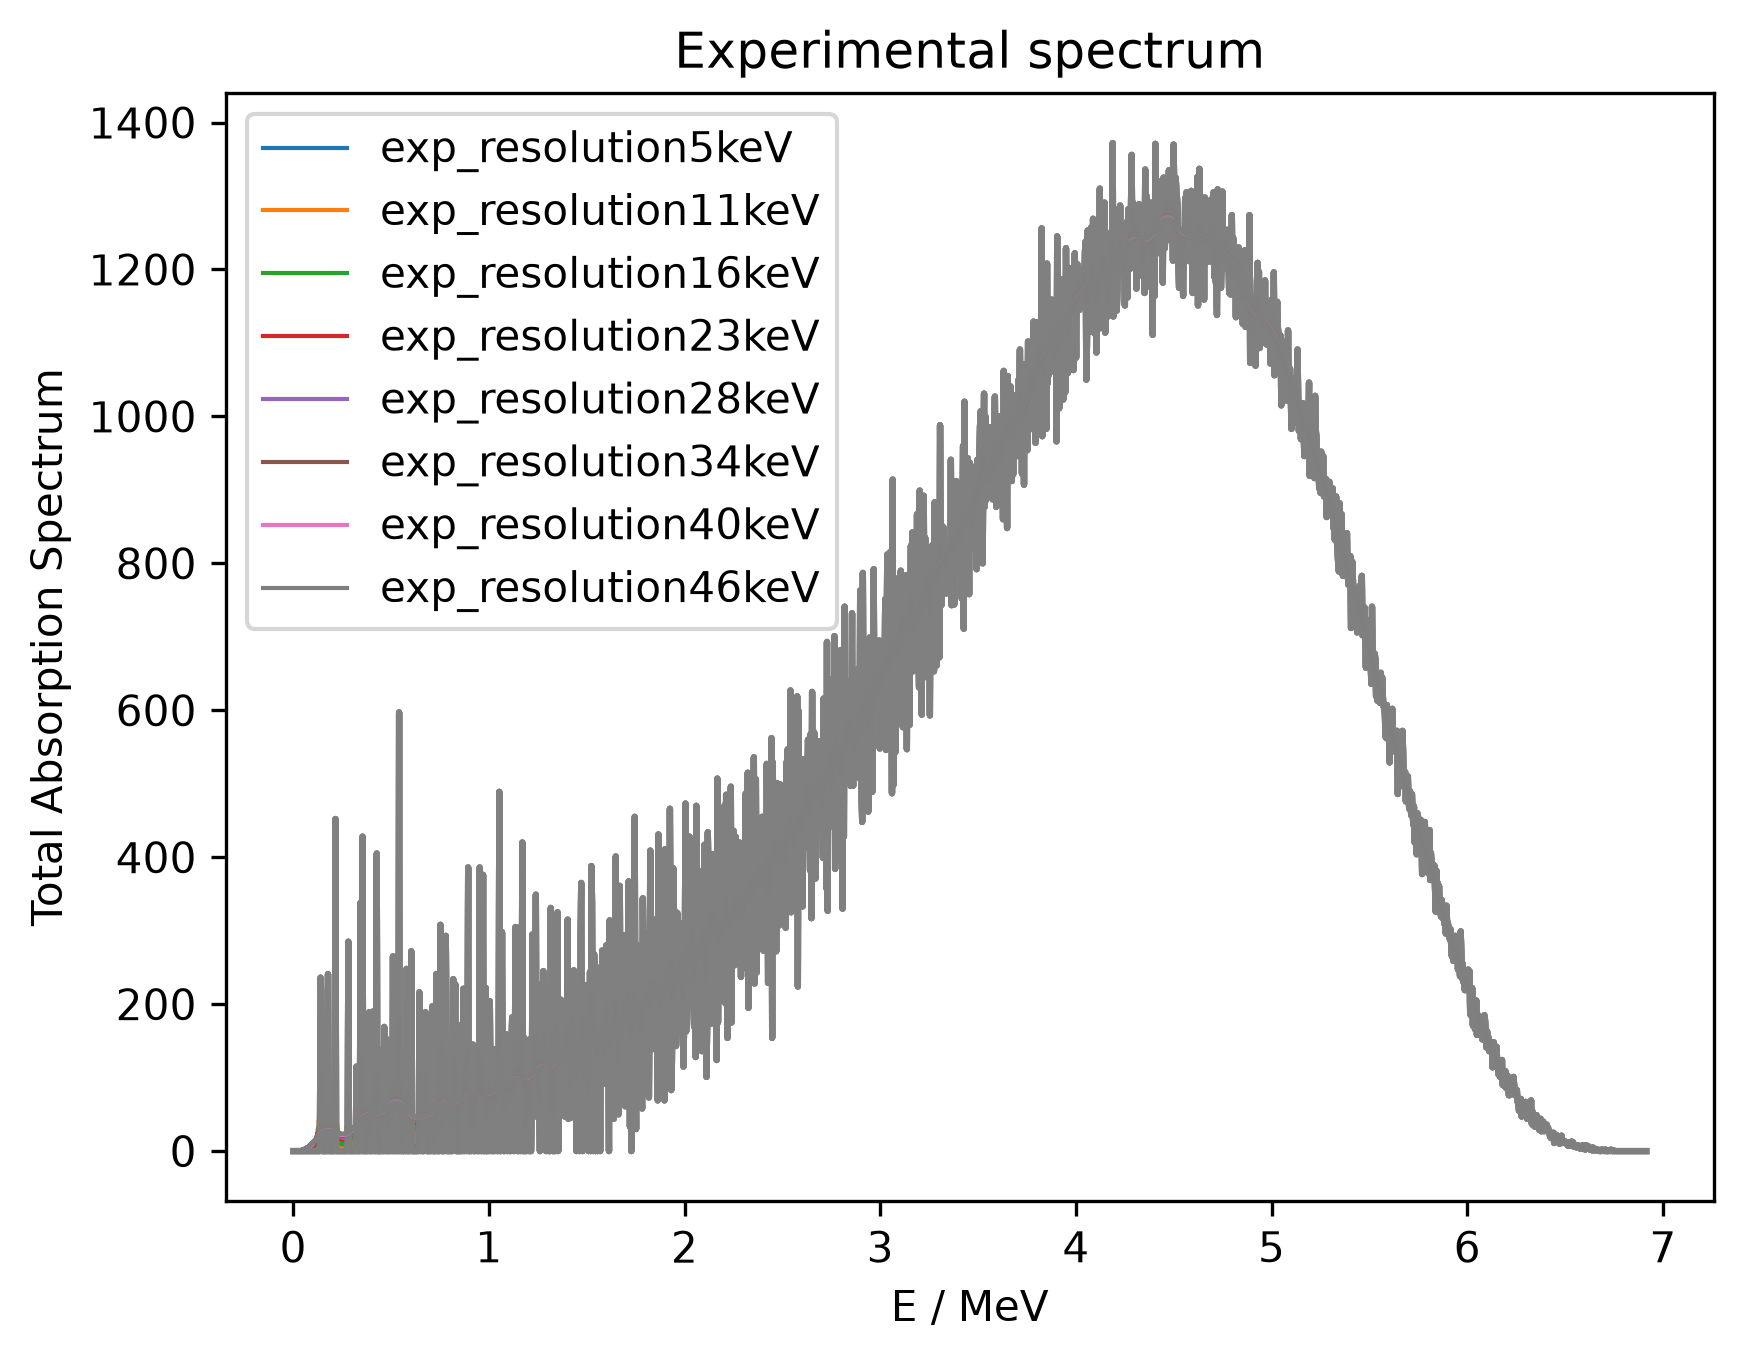
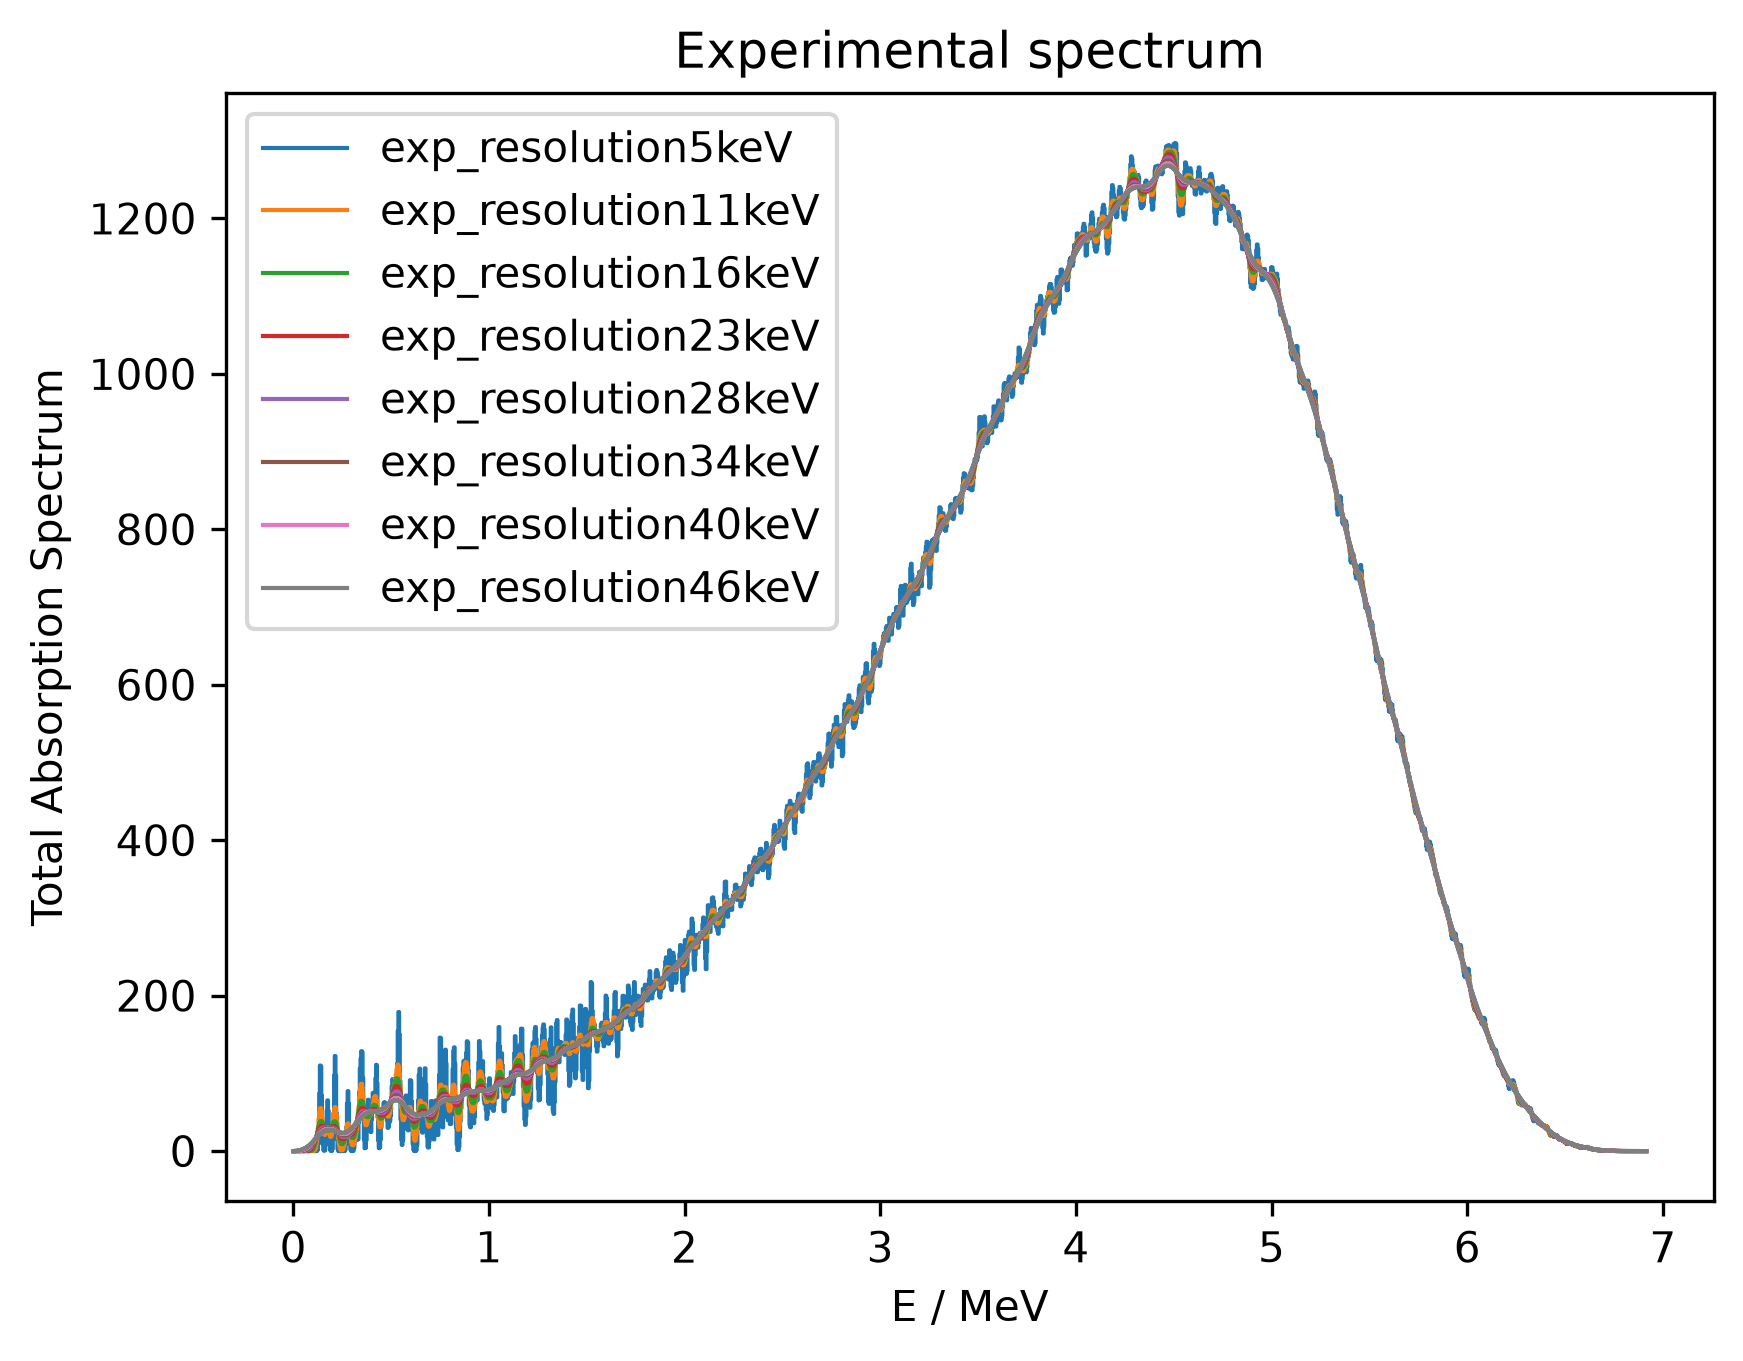
update

diff --git a/Analysis.py b/Analysis.py
@@ -39,21 +39,18 @@ class FluctuationAnalysisPlot:
             energy: list,
             fluct_data: list,
             *,
-            show_full: bool = False,
+            hide_exact_data: bool = False,
             run: Run = None,
             label: str = ""
             ) -> None:
         plt.step(energy, fluct_data, lw=self.linewidth, label=label)
-        if run is not None:
+        if not hide_exact_data:
             energy, data = extract.get_fluct_data(run)
             plt.plot(energy, data, color="grey", alpha=0.5)
         plt.xlabel("E / MeV")
         plt.ylabel("Total Absorption Spectrum")
         plt.legend()
         plt.title("Experimental spectrum")
-        if not show_full:
-            pass
-            #plt.ylim(0,np.percentile(fluct_data, [0,99.8])[1])
 
     def smooth(
             self,
@@ -134,7 +131,8 @@ class FluctuationAnalysisPlot:
             fa_step: FaStep,
             *,
             label: str = "no label",
-            run: Run = None
+            run: Run = None,
+            fluct_data_hide_exact_data: bool = False
             ) -> None:
         fluct_energy = fa.fluct_energy
         fluct_data = fa.fluct_data
@@ -145,7 +143,7 @@ class FluctuationAnalysisPlot:
         extract_nld = fa.nld
         match fa_step:
             case FaStep.fluct:
-                self.fluct_data(fluct_energy, fluct_data, run=run, label=label)
+                self.fluct_data(fluct_energy, fluct_data, run=run, label=label, hide_exact_data=fluct_data_hide_exact_data)
             case FaStep.smoothing:
                 self.smooth(fluct_energy, fluct_data, fine, rough, run=run, label=label)
             case FaStep.stationary:
@@ -236,7 +234,7 @@ class FluctuationAnalysisPlot:
                 param0 = parameter[iter_setting]
                 parameter[iter_setting] = param
                 fa = fluc.fluctuation_analysis(run)
-                self.helper_seriesplot(fa, step, label=self.label(iter_setting,param), run=run)
+                self.helper_seriesplot(fa, step, label=self.label(iter_setting,param), run=run, fluct_data_hide_exact_data=True)
                 parameter[iter_setting] = param0
             plt.savefig(
                 Settings.std_path / FluctuationAnalysis.fa_step_to_folder_name[step] / ("combined"+".png"),
@@ -249,7 +247,8 @@ class FluctuationAnalysisPlot:
             fa: list[FluctuationAnalysisResult],
             *,
             figsize: tuple[float, float] = None,
-            run: Run | list[Run] = None
+            run: Run | list[Run] = None,
+            file_name: str
             ) -> None:
         if isinstance(fa, FluctuationAnalysisResult):
             single = True
